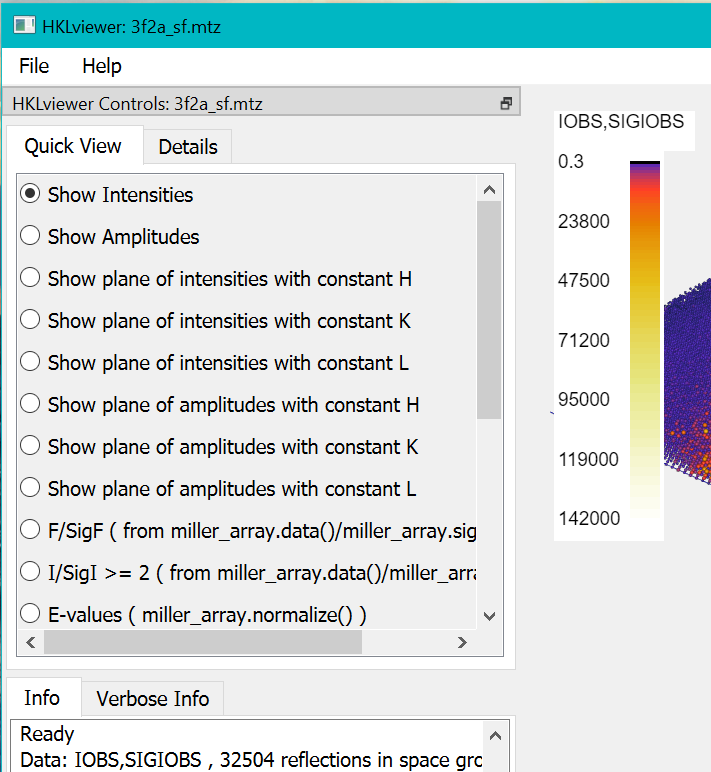
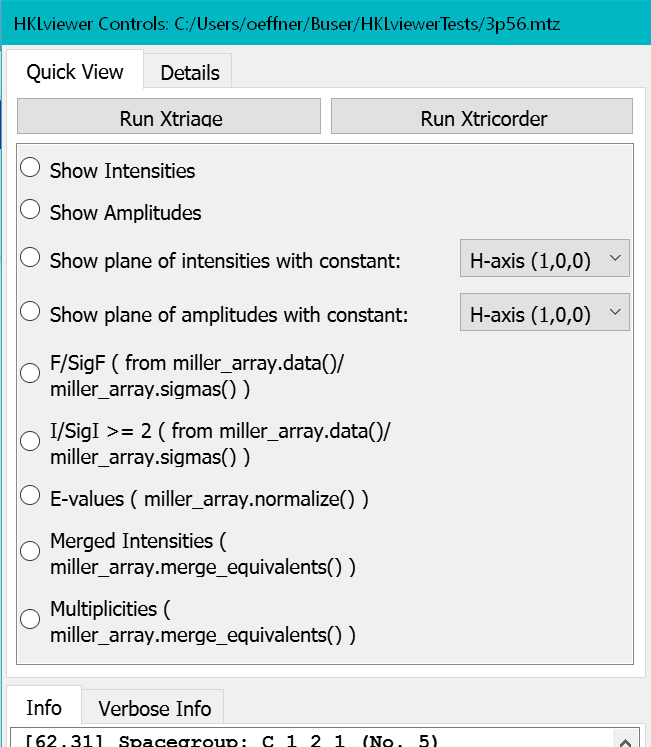
More changes for final version of HKLviewer

Changed region(s): [[0.0, 0.0, 1.0, 1.0], [0.7988, 0.6466, 0.8909, 0.6774], [0.9524, 0.9853, 0.9831, 1.0]]

diff --git a/cctbx/templates/cctbx/documentation/doc_hklviewer.html b/cctbx/templates/cctbx/documentation/doc_hklviewer.html
@@ -73,61 +73,39 @@ is started.
   </p>
 
   <!----------------------------------------------------------------------------->
-
-  <h3 class="mt-4">Integration with other programs</h3>
-
-  <h4>Xtriage</h4>
-    Xtriage is also a part of the CCTBX and Phenix. An amplitude or intensity dataset that is displayed in the
-    HKLviewer can be processed with Xtriage by clicking on the "Xtriage" button on top on the "Quick View" tab
-    of the HKLviewer controls. Once it has finished a log file from the Xtriage run will be present in the bottom 
-    of the HKLviewer controls as an additional tab. 
-
-    If the dataset is likely to be twinned Xtriage will emit a list of possible twin operators which the HKLviewer 
-    then makes accessible as buttons below on the "Quick View" tab as well as on the Vectors tab found on the 
-    Details tab. A description on how to inspect a twin law is given in the tutorials section.
-  
-
-
-  <h4>XDSGUI</h4>
-    The HKLviewer can be integrated with the
-    <a href="https://strucbio.biologie.uni-konstanz.de/xdswiki/index.php/Main_Page">XDSGUI</a> to make it easy to visualise
-    and inspect newly integrated datasets. This is a lightweight implementation that relies on the presence of a Phenix 
-    installation. Then the command-line to the HKLviewer needs to be specified in the XDSGUI and it will persists between
-    sessions of running XDSGUI. The command line that needs to be entered in the XDSGUI is the following:
-<pre class="CodeGreen"><code>source &lt;path/to/phenix-installation&gt;/phenix_env.sh; cctbx.HKLviewer XDS_ASCII.HKL</code></pre>
-    In the XDSGUI this should be entered under the button labelled "User defined command 3" found on the "Further analyses" 
-    part of the "tools" tab as illustrated on the screenshot of the 
-    <a href="{% static 'cctbx/img/hklviewer/XDSGUIscreenshot.jpg' %}">XDSGUI with the HKLviewer here</a>.
-
-
   <h3 class="mt-4">Predefined buttons</h3>
   <p>
     The "Quick View" tab contains several predefined radio buttons such as "Show Amplitudes",
-    "Show plane of Intensities with constant H", "I/SigI" and others. Those buttons provide a quick way
-    to the typical ways of displaying reflections from a loaded reflection file.
+    "Show plane of Intensities with constant H", "F/SigF", "I/SigI>=2", "E-values", "Merged Intensities" and 
+    "Multiplicities". Those buttons provide a quick way to the typical ways of displaying reflections from a 
+    loaded reflection file. 
   </p>
-  <img style="max-width: 75%;" src="{% static 'cctbx/img/hklviewer/presetbuttons.png' %}">
-
+  <img style="max-width: 80%;" src="{% static 'cctbx/img/hklviewer/presetbuttons.png' %}">
+  <p/>
+  Depending on what datasets are present not all of those buttons will show up. 
+  The "I/SigI>=2", "Merged Intensities" and "Multiplicities" will only be available if there is an intensity 
+  dataset in the file. 
+  <p/>
+  
   <!----------------------------------------------------------------------------->
-
-  <h3 class="mt-4">How to display amplitudes, intensities, slices of reflections</h3>
+  <h4 class="mt-4">How to display amplitudes, intensities, slices of reflections</h4>
   <p>
     The first dataset of type "Intensities" in the loaded file can be displayed by pressing the "Show Intensities" button.
     HKLviewer first looks for a dataset labelled "I,SIGI" and associates that
-    with the "Show Amplitudes" button. Failing that, it will look for a dataset of type "Amplitudes" and use that instead.
-    If such a dataset this is still not found the button will be disabled. The same protocol applies to the "Show Amplitudes button"
-    where it is looking for the dataset "FOBS,SIGFOBS".
+    with the "Show Intensities" button. Failing that, it will look for a dataset of type "Intensity" and use that instead.
+    If such a dataset this is still not found the button will not be shown. The same applies to the "Show Amplitudes button"
+    where it is looking for the dataset "FOBS,SIGFOBS" or a dataset of type "Amplitude".
   </p>
   <p>
     Slices of reflections at constant H, K or L can be displayed by pressing one of the "Show plane of intensities"
-    or "Show plane of amplitudes"
-    buttons. HKLviewer will expand intensities or amplitudes data to P1 and Friedel mates. A slice of reflections in reciprocal
+    or "Show plane of amplitudes" buttons and then selecting H,K or L-axis from the drop-down list. 
+    HKLviewer will expand intensities or amplitudes data to P1 and Friedel mates. The slice of reflections in reciprocal
     space is obtained by imposing two clip planes perpendicular to the Z-axis on both sides of the origin. Only reflections
     in between the clip planes are visible. HKLviewer then orients the reciprocal space so in case of showing a plane of
     reflections with constant L, the real space vector associated with the L axis is normal to the clip planes, i.e. parallel
     to the Z-axis. The plane of visible reflections is indicated with the equation shown in the bottom of the graphics window.
     Plus/Minus bottons are available for stepping through the layers of reflections. The clip planes are always oriented
-    perpendicular to the Z axis. Arbitrary
+    perpendicular to the Z-axis. Arbitrary
     <a href="#how-to-slice-reflections-with-arbitrarily-oriented-clip-planes">orientation of clip planes relative to the displayed reflections</a>
     is also possible.
   </p>
@@ -139,24 +117,30 @@ is started.
   </p>
   <!----------------------------------------------------------------------------->
 
-  <h3 class="mt-4">I/SigI, F/SigF and E-values</h3>
+  <h4 class="mt-4">I/SigI>=2, F/SigF, E-values, Merged Intensities and Multiplicities</h4>
   <p>
     For a dataset containing intensity data or amplitude data new datasets can be calculated on the fly containing the
-    data values divided by their asssociated sigma values, i.e. I/SigI or F/SigF. These are common indicators of the
-    strength of the data.
+    data values divided by their asssociated sigma values, i.e. I/SigI>=2 or F/SigF. These are common indicators of the
+    strength of the data. Reflections with I/SigI>=2 is a typical criterion for what constitutes reliable data values.
+    This can be changed to a different value on the Binning tab on the Details tab once the "I/SigI>=2" data
+    is displayed.
   <p />
   <p>
     E-values i.e. normalised amplitudes can also be calculated on the fly with a button press. E-values are computed according to
     the the normalize() function found here
-    <a href="https://cctbx.github.io/cctbx/cctbx.miller.html#the-miller-array">cctbx.miller.array</a>. Anisotropic or tNCS
+    <a href="https://cctbx.github.io/cctbx/cctbx.miller.html#cctbx.miller.array.normalize">cctbx.miller.array</a>. Anisotropic or tNCS
     correction is not applied.
-  </p>
-  <p>
-    Press the I/SigI, F/SigF or E-values button to display this new data.
+    This rescales amplitudes by inverting B-factor and scattering factor attenuation
+    to make all reflections regardless of resolution shell appear on average to have the same strength.
+    <p/>
+    Given an unmerged dataset of intensities, the "Merged Intensities" button will merge the symmetry-related 
+    reflections (keeping anomalous flag). The "Multiplicities" button will emit a dataset of integers counting the
+    how many symmetry related reflections was used to produce a reflection in the merged array.
+
   </p>
   <!----------------------------------------------------------------------------->
 
-  <h3 class="mt-4">User defined buttons</h3>
+  <h4 class="mt-4">User defined buttons</h4>
   <p>
     It is also possible to add your own
     customised buttons to the Quick View tab. Customised buttons are defined in the file
@@ -208,8 +192,7 @@ is started.
     A unique stringID, say "FriedelBtn" as wells as a text string to display next to the button,
     say "Expand Friedel pairs", must also be provided.
     <a name="hkl_viewer_buttons_py_file"></a>
-    These two tuple elements come before the PHIL parameters
-    string. The file also contains a tuple defining a button for displaying sigmas of an intensity dataset.
+    These two tuple elements come before the PHIL parameters string. 
   </p>
 
 
@@ -217,8 +200,8 @@ is started.
 
   <p>
     When the HKLviewer is restarted with this file present as .hkl_viewer_buttons.py in the user's HOME directory
-    the two buttons will appear on the "Quick View" tab encircled with a green pen as
-    illustrated below.
+    buttons defined in this file will appear on the "Quick View" tab encircled with a green pen as
+    illustrated below. Besides the "Expand Friedel pairs" button a "Show SigI" button has also been defined and is shown.
   </p>
 
   <img style="max-width: 70%;" src="{% static 'cctbx/img/hklviewer/user_preset_btn_loaded.png' %}">
@@ -230,6 +213,55 @@ is started.
 
   <!----------------------------------------------------------------------------->
 
+  <h3 class="mt-4">Integration with other programs</h3>
+
+  <h4>Xtriage</h4>
+    Xtriage is also a part of the CCTBX and Phenix. An amplitude or intensity dataset that is displayed in the
+    HKLviewer can be processed with Xtriage by clicking on the "Xtriage" button on top on the "Quick View" tab
+    of the HKLviewer controls. Once it has finished a log file from the Xtriage run will be present in the bottom 
+    of the HKLviewer controls as an additional tab. 
+
+    If the dataset is likely to be twinned Xtriage will emit a list of possible twin operators which the HKLviewer 
+    then makes accessible as buttons below on the "Quick View" tab as well as on the Vectors tab found on the 
+    Details tab. The twin operator which Xtriage computes to have the lowest R-obs value is usually the most interesting.
+    It is found in the list of twin operators in the Xtriage tab and matches one of the rotation operators on the 
+    Vectors tab found on the Details tab.
+    <p/>
+    <img style="max-width: 100%;" src="{% static 'cctbx/img/hklviewer/Xtriagebuttons.png' %}">
+    <p/>
+    A tutorial on how to inspect a twin law is given in the <a href="../tuto_hklviewer/#inspecting_a_twin_law">tutorial section</a>.
+  
+
+  <h4>Xtricorder</h4>
+    Xtricorder is part  <a href="https://doi.org/10.1107/S2059798320014746">Phasertng</a> distributed within the 
+    Phenix and the CCP4 suite. Pressing the Xtricorder button it will analyse an mtz file in several ways
+    and produces an output file with several additional columns. This output file will subsequently be loaded in
+    the HKLviewer. The most interesting new columns are the INFO, the ANISO and the TEPS columns. These columns
+    are the information content of each reflection, the anisotropy correction terms and the TNCS correction
+    terms, respectively. The TEPS column may not be present if no significant TNCS modulation is detected in the intensities.
+    The INFO column will be absent if the original mtz file only contained amplitudes and not intensities.
+    Once the mtz file produced by Xtricorder has been loaded the HKLviewer will display some new buttons on the Quick View
+    tab. 
+    <p/>
+    <img style="max-width: 75%;" src="{% static 'cctbx/img/hklviewer/Xtricorderbuttons.png' %}">
+  <p/>
+    These are buttons are for visualising reflections with information content less than 0.35 bits, for
+    for visualising anisotropy and for visualising TNCS correction terms.
+    A tutorial on how to inspect TNCS modulation in a dataset is given in the 
+    <a href="../tuto_hklviewer/#inspecting-tncs-modulation-in-a-dataset">tutorial section</a>.
+
+  <h4>XDSGUI</h4>
+    The HKLviewer can be integrated with the
+    <a href="https://strucbio.biologie.uni-konstanz.de/xdswiki/index.php/Main_Page">XDSGUI</a> to make it easy to visualise
+    and inspect newly integrated datasets. This is a lightweight implementation that relies on the presence of a Phenix 
+    installation. Then the command-line to the HKLviewer needs to be specified in the XDSGUI and it will persists between
+    sessions of running the XDSGUI. The command line that needs to be entered in the XDSGUI is the following:
+<pre class="CodeGreen"><code>source &lt;path/to/phenix-installation&gt;/phenix_env.sh; cctbx.HKLviewer XDS_ASCII.HKL</code></pre>
+    In the XDSGUI this should be entered under the button labelled "User defined command 3" found on the "Further analyses" 
+    part of the "tools" tab as illustrated on the screenshot of the 
+    <a href="{% static 'cctbx/img/hklviewer/XDSGUIscreenshot.jpg' %}">XDSGUI with the HKLviewer here</a>.
+
+
   <h3 class="mt-4">How to display other reflection datasets</h3>
 
   <p>
@@ -240,7 +272,7 @@ is started.
 
   <!----------------------------------------------------------------------------->
 
-  <h3 class="mt-4">How to display sigmas</h3>
+  <h4 class="mt-4">How to display sigmas</h4>
 
   <p>
     If a dataset contains sigmas associated to amplitudes or intensities, say it is labelled as
@@ -253,7 +285,12 @@ is started.
 
   <!----------------------------------------------------------------------------->
 
-  <h3 class="mt-4">How to change colour mapping</h3>
+  <h3 class="mt-4">Customising appearance of a particular type of dataset</h3>
+  HKLviewer comes with default schemes for displaying different data types in of colours and sizes of
+  the displayed reflections. These can be customised by the user and the settings will be persisted 
+  next time the HKLviewer is started. 
+
+  <h4 class="mt-4">How to change colour mapping</h4>
 
   <p>
     The reflections are coloured according to
@@ -290,7 +327,37 @@ is started.
 
   <!----------------------------------------------------------------------------->
 
-  <h3 class="mt-5">Displaying map coefficients</h3>
+  <h4 class="mt-5">How to change size of displayed reflections</h4>
+
+  <p>
+    The size of each reflection is a function of its associated data value. Similar to colour mapping
+    of data values a function is employed that produces a radius, \(r\), dependent on the data value, \(x\), and
+    a power scale factor, \(p\).
+  </p>
+
+  \begin{equation}
+  r(x) = ((x-x_{min})/(x_{max} - x_{min}))^p
+  \end{equation}
+
+  where \(x_{min} \) and \(x_{max}\) are the minimum and maximum data values found in the data set. The power
+  scale factor can either be selected by the user or be determined atuomatically.</p>
+
+  <img style="max-width: 50%;" src="{% static 'cctbx/img/hklviewer/doc_hklviewer_006.png' %}">
+
+  <p class="mt-3">
+    For amplitudes or intensities where often there are orders of magnitude difference between
+    the smallest and the largest data values it can be helpful to adjust the power scale factor to make all
+    reflections the same size, \(p=0\), to ensure all recorded reflections are visible. Alternatively,
+    to get a better view of the strength of the data an automatic power scale factor can be selected which
+    will render the weakest reflections ten times smaller than the strongest reflections. When displaying sigmas of
+    intensities or amplitudes this is reversed so that selecting automatic power scale factor will render the
+    reflections with the smallest sigma ten times the size of the reflection with the largest sigma.
+  </p>
+
+  <!----------------------------------------------------------------------------->
+
+
+  <h4 class="mt-5">Displaying map coefficients</h4>
 
   <p>
     For data with map coeffficients or phases only the phase value (modulo 360) is used for the colour mapping.
@@ -365,36 +432,7 @@ is started.
 
   <!----------------------------------------------------------------------------->
 
-  <h3 class="mt-5">How to change size of displayed reflections</h3>
-
-  <p>
-    The size of each reflection is a function of its associated data value. Similar to colour mapping
-    of data values a function is employed that produces a radius, \(r\), dependent on the data value, \(x\), and
-    a power scale factor, \(p\).
-  </p>
-
-  \begin{equation}
-  r(x) = ((x-x_{min})/(x_{max} - x_{min}))^p
-  \end{equation}
-
-  where \(x_{min} \) and \(x_{max}\) are the minimum and maximum data values found in the data set. The power
-  scale factor can either be selected by the user or be determined atuomatically.</p>
-
-  <img style="max-width: 50%;" src="{% static 'cctbx/img/hklviewer/doc_hklviewer_006.png' %}">
-
-  <p class="mt-3">
-    For amplitudes or intensities where often there are orders of magnitude difference between
-    the smallest and the largest data values it can be helpful to adjust the power scale factor to make all
-    reflections the same size, \(p=0\), to ensure all recorded reflections are visible. Alternatively,
-    to get a better view of the strength of the data an automatic power scale factor can be selected which
-    will render the weakest reflections ten times smaller than the strongest reflections. When displaying sigmas of
-    intensities or amplitudes this is reversed so that selecting automatic power scale factor will render the
-    reflections with the smallest sigma ten times the size of the reflection with the largest sigma.
-  </p>
-
-  <!----------------------------------------------------------------------------->
-
-  <h3 class="mt-5">How to partition reflections into bins</h3>
+  <h3 class="mt-5">How to sort reflections into bins</h3>
 
   <p>
     From the Binning tab that is found below the table of datasets on the Details tab
@@ -406,17 +444,17 @@ is started.
   </p>
   <p>
 
-    <!----------------------------------------------------------------------------->
-    <h3 class="mt-5">Bin dataset according to resolution</h3>
+  <!----------------------------------------------------------------------------->
+  <h4 class="mt-5">Bin dataset according to resolution</h4>
 
-    In the figure below 6 bins of resolution have been created for the FP,SIGFP dataset using the default bin thresholds.
+  In the figure below 6 bins of resolution have been created for the FP,SIGFP dataset using the default bin thresholds.
   </p>
 
   <img style="max-width: 100%;" src="{% static 'cctbx/img/hklviewer/doc_hklviewer_007.png' %}">
 
   <!----------------------------------------------------------------------------->
 
-  <h3 class="mt-5">Adjusting bin thresholds</h3>
+  <h5 class="mt-5">Adjusting bin thresholds</h5>
 
   <p>
     If one were to change the bin threshold for 4th bin from 2.27 to 2.1Å this is done by entering the
@@ -441,10 +479,10 @@ is started.
 
   <!----------------------------------------------------------------------------->
 
-  <h3 class="mt-5">Bin dataset according to values in another dataset</h3>
+  <h4 class="mt-5">Bin dataset according to values in another dataset</h4>
 
   <p class="mt-3">
-    Data can alsso be binned against other data values by selecting the desired data value for
+    Data can also be binned against other data values by selecting the desired data value for
     binning from the drop-down list.
   </p>
 
@@ -468,7 +506,7 @@ is started.
 
   <!----------------------------------------------------------------------------->
 
-  <h3 class="mt-5">How to display rotation axes or other vectors</h3>
+  <h3 class="mt-5">How to display space group rotation operators and other vectors</h3>
 
   <!----------------------------------------------------------------------------->
 
@@ -496,7 +534,7 @@ is started.
 
   <!----------------------------------------------------------------------------->
 
-  <h3 class="mt-5">How to add user defined vectors</h3>
+  <h4 class="mt-5">How to add user defined vectors</h4>
 
   <p>
     In addition to rotation axes given by the space group it is possible to explicitly enter a rotation operator and
@@ -595,7 +633,7 @@ is started.
 
   <!----------------------------------------------------------------------------->
 
-  <h3 class="mt-5">Variables</h3>
+  <h4 class="mt-5">Variables</h4>
 
   <p>
     The following variables are available for a python expression submitted in
@@ -658,7 +696,7 @@ is started.
 
   <!----------------------------------------------------------------------------->
 
-  <h3 class="mt-5">Examples of creating a new dataset</h3>
+  <h4 class="mt-5">Examples of creating a new dataset</h4>
 
   <p>
     When creating a new dataset copies, the objective is to define <code>newarray</code> as a
